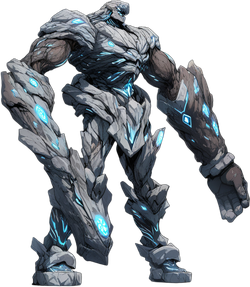
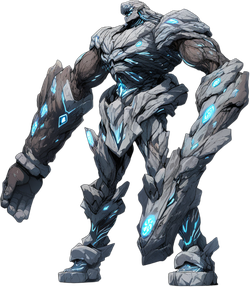
v0.16.1: 錬成を選択式に変更、ゴーレムの向きを修正
【錬成】自動で素材を選ぶ方式をやめ、プレイヤーが選ぶようにした。
「錬成する」→ 素材庫の3個以上ある素材だけが選べる状態になる →
選んで「決定」で実行。足りない素材は沈めて押せなくし、選択中の素材は
金枠で示す。「やめる」で選択を取り消せる。
自動選択のための pickSurplus は不要になったので削除した。

【ゴーレム】頭部が右を向いていた(敵は左向きが正しい)。画像を反転し、
subjects.json の flip にも登録した。他13種は確認済みで問題なし。

diff --git a/src/lab.ts b/src/lab.ts
@@ -3,7 +3,7 @@
 import {
   DISASSEMBLE_RATE, DISCOVERY_BONUS_RP, ELEMENT_POOL, ELEMENTS, ELEMENT_ORDER,
   GATHER_COST, GATHER_COUNT, LIBRARY_BONUS_MAX, LIBRARY_BONUS_START,
-  libraryBonus, pickSurplus, RARITIES, rarityMultiplier, RECIPES, rollRarity,
+  libraryBonus, RARITIES, rarityMultiplier, RECIPES, rollRarity,
   SLOT3_COST, SLOT4_BOSS_STAGE, SLOT4_COST, SLOT5_BOSS_STAGE, SLOT5_COST,
   TRANSMUTE_COST, transmuteResult,
 } from '../shared/data';
@@ -84,6 +84,7 @@ export function initLab(): void {
   $('#btn-craft').addEventListener('click', craft);
   $('#btn-gather').addEventListener('click', gather);
   $('#btn-transmute').addEventListener('click', transmute);
+  $('#btn-transmute-cancel').addEventListener('click', cancelTransmute);
   $('#btn-sort-spells').addEventListener('click', () => {
     state.sortByPower = !state.sortByPower;
     notify();
@@ -117,13 +118,22 @@ function renderInventory(): void {
     const free = have - placedOf(id);
     const got = gained.get(id) ?? 0;
     const card = document.createElement('div');
-    card.className = 'elem-card' + (free <= 0 ? ' empty' : '') + (got > 0 ? ' elem-gained' : '');
+    // 錬成の選択中は、使える素材だけを選べるようにする
+    const tmOk = transmuteMode && canTransmute(id);
+    const cls = 'elem-card'
+      + (free <= 0 ? ' empty' : '')
+      + (got > 0 ? ' elem-gained' : '')
+      + (transmuteMode ? (tmOk ? ' tm-ok' : ' tm-ng') : '')
+      + (transmutePick === id ? ' tm-picked' : '');
+    card.className = cls;
     card.innerHTML =
       `<span class="ename" style="color:${def.cssColor}">${def.name}</span>` +
       (got > 0 ? `<span class="gain-badge">+${got}</span>` : '') +
       `<span class="ecount">×${free}</span>` +
       `<div class="edesc">${def.desc}</div>`;
-    if (free > 0) {
+    if (transmuteMode) {
+      if (tmOk) card.addEventListener('click', () => pickTransmute(id));
+    } else if (free > 0) {
       card.addEventListener('click', () => {
         const empty = slotSel.indexOf(null);
         if (empty === -1) return;
@@ -483,46 +493,106 @@ function freeInventory(): Partial<Record<ElementId, number>> {
   return free;
 }
 
+// 錬成の選択中かどうか。選択中は素材庫のクリックが「錬成する素材の選択」になる。
+export let transmuteMode = false;
+let transmutePick: ElementId | null = null;
+
+// 3個以上あって錬成に使える素材か
+export function canTransmute(id: ElementId): boolean {
+  return (freeInventory()[id] ?? 0) >= TRANSMUTE_COST;
+}
+
+export function isTransmuteMode(): boolean {
+  return transmuteMode;
+}
+
+export function transmutePicked(): ElementId | null {
+  return transmutePick;
+}
+
+// 素材庫のカードが押されたとき(選択中のみ)
+export function pickTransmute(id: ElementId): void {
+  if (!transmuteMode || !canTransmute(id)) return;
+  transmutePick = transmutePick === id ? null : id; // もう一度押すと選択解除
+  renderLab();
+}
+
+function anyTransmutable(): boolean {
+  return ELEMENT_ORDER.some(id => canTransmute(id));
+}
+
+function endTransmuteMode(): void {
+  transmuteMode = false;
+  transmutePick = null;
+}
+
 function renderTransmute(): void {
   const btn = $<HTMLButtonElement>('#btn-transmute');
+  const cancel = $<HTMLButtonElement>('#btn-transmute-cancel');
   const note = $('#transmute-note');
-  const picks = pickSurplus(freeInventory());
-  if (!picks) {
-    btn.disabled = true;
-    btn.textContent = `錬成する (エレメント${TRANSMUTE_COST}個が必要)`;
-    note.textContent = '手持ちが足りない。採取か戦闘でエレメントを集めよう。';
+
+  // 選択中に手持ちが減って条件を満たさなくなったら選択を外す
+  if (transmutePick && !canTransmute(transmutePick)) transmutePick = null;
+
+  if (!transmuteMode) {
+    cancel.classList.add('hidden');
+    btn.textContent = '錬成する';
+    btn.disabled = !anyTransmutable();
+    note.textContent = btn.disabled
+      ? `同じ素材が${TRANSMUTE_COST}個そろっていない。採取や戦闘で集めよう。`
+      : `押すと、${TRANSMUTE_COST}個以上ある素材を選べるようになる。`;
     return;
   }
+
+  cancel.classList.remove('hidden');
+  if (!transmutePick) {
+    btn.textContent = '決定';
+    btn.disabled = true;
+    note.textContent = `素材庫から、${TRANSMUTE_COST}個以上ある素材を選んでください。`;
+    return;
+  }
+  btn.textContent = `決定 (${ELEMENTS[transmutePick].name}${TRANSMUTE_COST}個 → ランダム1個)`;
   btn.disabled = false;
-  // 何が減るかを押す前に見せる(自動で選ぶので、確認できないと不安になる)
-  const used = picks.map(id => ELEMENTS[id].name).join('・');
-  btn.textContent = `錬成する (${used} → ランダム1個)`;
-  note.textContent = '手持ちが最も多い種類から使う。使った種類以外が出る。';
+  note.textContent = '選んだ種類以外のエレメントが1個できる(光・闇は出にくい)。';
 }
 
 let transmuting = false;
 
+// 「錬成する」→ 選択開始 / 「決定」→ 実行
 function transmute(): void {
   if (transmuting) return;
-  const picks = pickSurplus(freeInventory());
-  if (!picks) return;
+  if (!transmuteMode) {
+    if (!anyTransmutable()) return;
+    transmuteMode = true;
+    transmutePick = null;
+    $('#transmute-msg').textContent = '';
+    renderLab();
+    return;
+  }
+  const id = transmutePick;
+  if (!id || !canTransmute(id)) return;
+
   transmuting = true;
+  if (!spendElements({ [id]: TRANSMUTE_COST })) { transmuting = false; return; }
 
-  const counts: Partial<Record<ElementId, number>> = {};
-  for (const id of picks) counts[id] = (counts[id] ?? 0) + 1;
-  if (!spendElements(counts)) { transmuting = false; return; }
-
-  const got = transmuteResult(picks);
+  const got = transmuteResult(Array(TRANSMUTE_COST).fill(id) as ElementId[]);
   addElements([got]);
   markGained([got]);
 
-  const usedText = picks.map(id => ELEMENTS[id].name).join('・');
   const msg = $('#transmute-msg');
   msg.style.color = '#88ffaa';
-  msg.textContent = `⚗ ${usedText} を錬成して ${ELEMENTS[got].name} になった!`;
+  msg.textContent =
+    `⚗ ${ELEMENTS[id].name}${TRANSMUTE_COST}個を錬成して ${ELEMENTS[got].name} になった!`;
   showToast(`⚗ ${ELEMENTS[got].name} を錬成した`);
+  endTransmuteMode();
   notify();
   transmuting = false;
+}
+
+function cancelTransmute(): void {
+  endTransmuteMode();
+  $('#transmute-msg').textContent = '';
+  renderLab();
 }
 
 // ---- 魔導書 ----

diff --git a/test/transmute_check.ts b/test/transmute_check.ts
@@ -1,9 +1,10 @@
-// エレメント錬成(余った素材3個 → ランダムな1個)の検証
+// エレメント錬成(同じ素材3個 → ランダムな1個)の検証
 //   npx tsx test/transmute_check.ts
+//
+// 使う素材はプレイヤーが素材庫から選ぶ(3個以上ある種類のみ)。
+// ここでは抽選側の性質を確かめる。
 
-import {
-  ELEMENT_ORDER, ELEMENT_POOL, pickSurplus, TRANSMUTE_COST, transmuteResult,
-} from '../shared/data';
+import { ELEMENT_ORDER, ELEMENT_POOL, TRANSMUTE_COST, transmuteResult } from '../shared/data';
 import type { ElementId } from '../shared/types';
 
 let failures = 0;
@@ -16,66 +17,35 @@ const names: Record<ElementId, string> = {
   fire: '火', water: '水', wind: '風', earth: '土',
   thunder: '雷', ice: '氷', light: '光', dark: '闇',
 };
-const show = (ids: ElementId[] | null) =>
-  ids ? ids.map(i => names[i]).join('・') : 'なし';
 
-console.log('=== 使う素材の選び方 ===');
+console.log(`=== 錬成の結果(${TRANSMUTE_COST}個 → 1個) ===`);
 
-check('手持ちが足りなければ選べない',
-  pickSurplus({ fire: 2 }) === null, show(pickSurplus({ fire: 2 })));
-check('ちょうど3個なら選べる',
-  pickSurplus({ fire: 2, water: 1 })?.length === TRANSMUTE_COST,
-  show(pickSurplus({ fire: 2, water: 1 })));
-
-const many = pickSurplus({ fire: 9, water: 2, light: 1 });
-check('1種類で足りるならその種類だけを使う',
-  !!many && many.every(id => id === 'fire'), show(many));
-
-const spread = pickSurplus({ fire: 2, water: 2, wind: 1 });
-check('1種類で足りなければ多い順に寄せ集める',
-  spread?.length === TRANSMUTE_COST, show(spread));
-
-// 使う素材はこちらで自動選択するので、貴重な光・闇を勝手に消費してはいけない
-const keepRare = pickSurplus({ fire: 3, light: 5, dark: 5 });
-check('光・闇が多くても、他が足りていれば手を付けない',
-  !!keepRare && keepRare.every(id => id === 'fire'), show(keepRare));
-
-const mixRare = pickSurplus({ fire: 2, light: 3, dark: 3 });
-check('他が足りない分だけ光・闇を使う',
-  !!mixRare && mixRare.filter(id => id === 'fire').length === 2,
-  show(mixRare));
-
-const onlyRare = pickSurplus({ light: 2, dark: 1 });
-check('光・闇しか無ければ最後の手段として使える',
-  onlyRare?.length === TRANSMUTE_COST, show(onlyRare));
-
-check('総数が足りなければ選べない',
-  pickSurplus({ light: 1, dark: 1 }) === null);
-
-console.log('');
-console.log('=== 錬成の結果 ===');
-
-// 使った種類は出ない(同じものが返ると「減っただけ」になるため)
-let sameBack = 0;
-for (let i = 0; i < 3000; i++) {
-  if (transmuteResult(['fire', 'fire', 'fire']) === 'fire') sameBack++;
+// 使った種類が返ると「減っただけ」になるので、必ず別の種類が出る
+for (const used of ELEMENT_ORDER) {
+  let same = 0;
+  for (let i = 0; i < 500; i++) {
+    if (transmuteResult(Array(TRANSMUTE_COST).fill(used) as ElementId[]) === used) same++;
+  }
+  if (same > 0) {
+    check(`${names[used]}を錬成しても${names[used]}は出ない`, false, `${same}回出た`);
+  }
 }
-check('使った種類は出てこない', sameBack === 0, `${sameBack}回`);
+check('どの種類を錬成しても、同じ種類は返らない', failures === 0);
 
-// 出る種類が偏りすぎていないか(光・闇も出る)
+// 偏りの確認(火を錬成した場合)
 const count: Record<string, number> = {};
-for (let i = 0; i < 20000; i++) {
+const N = 20000;
+for (let i = 0; i < N; i++) {
   const got = transmuteResult(['fire', 'fire', 'fire']);
   count[got] = (count[got] ?? 0) + 1;
 }
-const got = ELEMENT_ORDER.filter(id => id !== 'fire');
-check('火以外の7種類すべてが出る', got.every(id => (count[id] ?? 0) > 0),
-  got.map(id => `${names[id]}${count[id] ?? 0}`).join(' '));
+const others = ELEMENT_ORDER.filter(id => id !== 'fire');
+check('火以外の7種類すべてが出る', others.every(id => (count[id] ?? 0) > 0),
+  others.map(id => `${names[id]}${count[id] ?? 0}`).join(' '));
 check('光と闇は出にくい(それぞれ1割未満)',
-  (count.light ?? 0) / 20000 < 0.1 && (count.dark ?? 0) / 20000 < 0.1,
-  `光${((count.light ?? 0) / 200).toFixed(1)}% 闇${((count.dark ?? 0) / 200).toFixed(1)}%`);
+  (count.light ?? 0) / N < 0.1 && (count.dark ?? 0) / N < 0.1,
+  `光${((count.light ?? 0) / N * 100).toFixed(1)}% 闇${((count.dark ?? 0) / N * 100).toFixed(1)}%`);
 
-// 抽選プールに全種類が含まれているか(採取と共通)
 check('抽選プールに8種類すべてある',
   ELEMENT_ORDER.every(id => ELEMENT_POOL.includes(id)));
 

diff --git a/shared/data.ts b/shared/data.ts
@@ -603,49 +603,6 @@ export const ELEMENT_POOL: ElementId[] = [
   'thunder', 'thunder', 'ice', 'ice', 'light', 'dark',
 ];
 
-// 錬成で自動選択したくない希少エレメント。
-// 使う素材はこちらで選ぶので、貴重な光・闇は他が尽きるまで手を付けない。
-const TRANSMUTE_LAST_RESORT: ElementId[] = ['light', 'dark'];
-
-// 錬成で使う素材を選ぶ。余っている(手持ちが最も多い)種類から取る。
-// 同じ種類で足りるならそれだけを使い、足りなければ多い順に寄せ集める。
-// 光・闇は他の素材が尽きた場合のみ使う。使える素材が足りなければ null。
-export function pickSurplus(
-  free: Partial<Record<ElementId, number>>, need = TRANSMUTE_COST,
-): ElementId[] | null {
-  const left: Record<string, number> = {};
-  for (const id of ELEMENT_ORDER) left[id] = Math.max(0, Math.floor(free[id] ?? 0));
-
-  // 総数が足りているかを先に見る(光・闇しか無い場合もここで通す)
-  let total = 0;
-  for (const id of ELEMENT_ORDER) total += left[id];
-  if (total < need) return null;
-
-  // 希少でないものを優先し、その中で手持ちが多い順に選ぶ
-  const rank = (id: ElementId): number =>
-    (TRANSMUTE_LAST_RESORT.includes(id) ? 0 : 1_000_000) + left[id];
-
-  // 1種類でまかなえるなら、その種類だけを使う(何が減るか分かりやすい)
-  let top: ElementId | null = null;
-  for (const id of ELEMENT_ORDER) {
-    if (left[id] > 0 && (top === null || rank(id) > rank(top))) top = id;
-  }
-  if (top !== null && left[top] >= need) return Array(need).fill(top) as ElementId[];
-
-  // 足りない場合は寄せ集める
-  const picks: ElementId[] = [];
-  for (let i = 0; i < need; i++) {
-    let best: ElementId | null = null;
-    for (const id of ELEMENT_ORDER) {
-      if (left[id] > 0 && (best === null || rank(id) > rank(best))) best = id;
-    }
-    if (best === null) return null;
-    left[best]--;
-    picks.push(best);
-  }
-  return picks;
-}
-
 // 錬成の結果。使った種類は除いて抽選する
 // (同じ種類が返ると「減っただけ」になり、作り替えた意味が無くなるため)。
 export function transmuteResult(

diff --git a/src/style.css b/src/style.css
@@ -120,8 +120,20 @@ button.tab.active { background: #5533aa; border-color: #7755cc; }
   margin: 0 0 4px; font-size: 13px; color: #bb99ff; font-weight: normal;
 }
 #transmute-box .note { margin: 4px 0 0; }
-#btn-transmute { margin-top: 6px; }
+.transmute-row { display: flex; gap: 8px; margin-top: 6px; }
+#btn-transmute-cancel.hidden { display: none; }
 #transmute-msg { min-height: 16px; }
+
+/* 錬成の選択中: 使える素材だけを目立たせ、足りないものは沈める */
+.elem-card.tm-ok {
+  border-color: #7755cc; cursor: pointer;
+}
+.elem-card.tm-ok:hover { background: #2c2450; }
+.elem-card.tm-ng { opacity: 0.35; cursor: default; }
+.elem-card.tm-picked {
+  border-color: #ffdd66; background: #2c2450;
+  box-shadow: 0 0 0 1px #ffdd66 inset;
+}
 
 /* 調合台 */
 #slot-row { display: flex; gap: 8px; margin: 10px 0; justify-content: center; }

diff --git a/index.html b/index.html
@@ -44,9 +44,12 @@
         <div id="transmute-box">
           <h3>エレメント錬成</h3>
           <p class="note">
-            余った素材<b>3個</b>を、ランダムなエレメント<b>1個</b>に作り替える。研究Pはかからない。
+            同じ素材<b>3個</b>を、ランダムなエレメント<b>1個</b>に作り替える。研究Pはかからない。
           </p>
-          <button id="btn-transmute">錬成する</button>
+          <div class="transmute-row">
+            <button id="btn-transmute">錬成する</button>
+            <button id="btn-transmute-cancel" class="hidden">やめる</button>
+          </div>
           <p class="note" id="transmute-note"></p>
           <div id="transmute-msg" class="note"></div>
         </div>

diff --git a/shared/version.ts b/shared/version.ts
@@ -1,5 +1,5 @@
 // バージョン情報(更新時はここだけ書き換える)
 
-export const VERSION = '0.16.0';
-export const BUILD_DATE = '2026-08-02 11:25';
+export const VERSION = '0.16.1';
+export const BUILD_DATE = '2026-08-02 11:48';
 export const COPYRIGHT = 'Copyright © 2026 YuriPapa';
